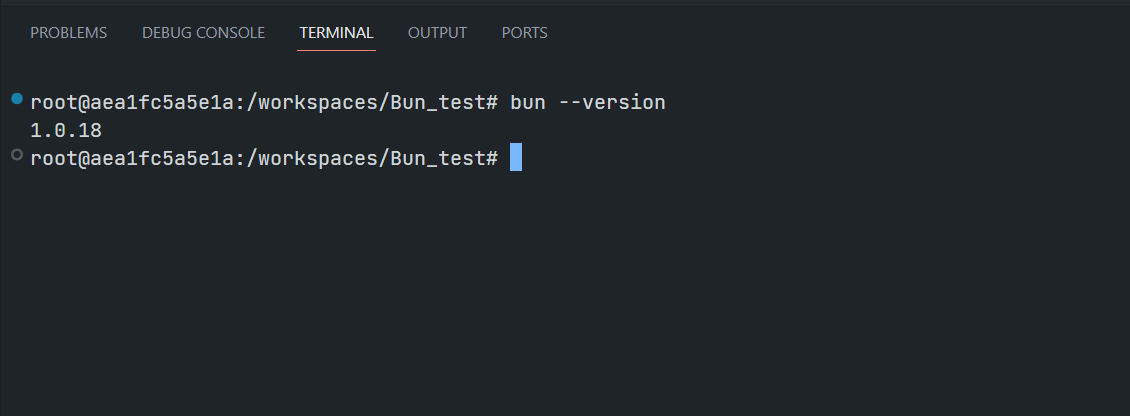
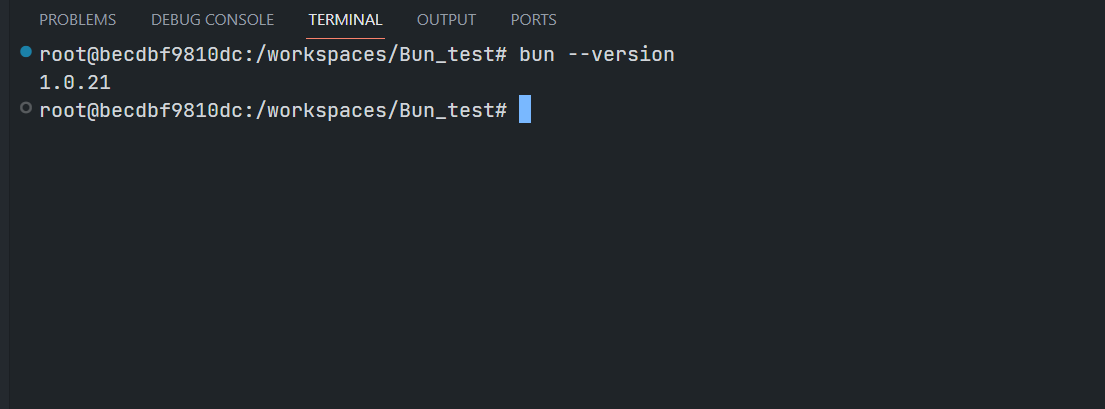
Add Scripts not working, remove Update project to Bun 1.0.21

Changed region(s): [[0.0, 0.0293, 0.6154, 0.4108]]

diff --git a/src/rdlib_cfsWorkflow.ts b/src/rdlib_cfsWorkflow.ts
@@ -3,9 +3,9 @@ import { Session } from '@refinitiv-data/data';
 import {GenericCFSFile} from './genericCFS.ts';
 
 const session = Session.Platform.Definition({
-    appKey: process.env.RDP_APP_KEY || ''!,
-    userName: process.env.RDP_USERNAME || ''!,
-    password: process.env.RDP_PASSWORD || ''!,
+    appKey: Bun.env.RDP_APP_KEY || ''!,
+    userName: Bun.env.RDP_USERNAME || ''!,
+    password: Bun.env.RDP_PASSWORD || ''!,
     takeSignOnControl: true,
 }).getSession();
 

diff --git a/src/rdp_app.ts b/src/rdp_app.ts
@@ -1,7 +1,7 @@
 export {};
-let username: string = process.env.RDP_USERNAME || '';
-let password: string = process.env.RDP_PASSWORD || '';
-let app_key: string = process.env.RDP_APP_KEY || '';
+let username: string = Bun.env.RDP_USERNAME || '';
+let password: string = Bun.env.RDP_PASSWORD || '';
+let app_key: string = Bun.env.RDP_APP_KEY || '';
 
 const rdp_host: string = 'https://api.refinitiv.com';
 const rdp_auth: string = '/auth/oauth2/v1/token';

diff --git a/src/rdlib_historical-pricing.ts b/src/rdlib_historical-pricing.ts
@@ -1,9 +1,9 @@
 import { HistoricalPricing, Session } from '@refinitiv-data/data';
 
 const session = Session.Platform.Definition({
-    appKey: process.env.RDP_APP_KEY || ''!,
-    userName: process.env.RDP_USERNAME || ''!,
-    password: process.env.RDP_PASSWORD || ''!,
+    appKey: Bun.env.RDP_APP_KEY || ''!,
+    userName: Bun.env.RDP_USERNAME || ''!,
+    password: Bun.env.RDP_PASSWORD || ''!,
     takeSignOnControl: true,
 }).getSession();
 

diff --git a/src/rdlib_news.ts b/src/rdlib_news.ts
@@ -1,9 +1,9 @@
 import { News, Session } from '@refinitiv-data/data';
 
 const session = Session.Platform.Definition({
-    appKey: process.env.RDP_APP_KEY || ''!,
-    userName: process.env.RDP_USERNAME || ''!,
-    password: process.env.RDP_PASSWORD || ''!,
+    appKey: Bun.env.RDP_APP_KEY || ''!,
+    userName: Bun.env.RDP_USERNAME || ''!,
+    password: Bun.env.RDP_PASSWORD || ''!,
     takeSignOnControl: true,
 }).getSession();
 

diff --git a/src/testSession.ts b/src/testSession.ts
@@ -1,9 +1,9 @@
 import { Session } from '@refinitiv-data/data';
 
 const session = Session.Platform.Definition({
-    appKey: process.env.RDP_APP_KEY || ''!,
-    userName: process.env.RDP_USERNAME || ''!,
-    password: process.env.RDP_PASSWORD || ''!,
+    appKey: Bun.env.RDP_APP_KEY || ''!,
+    userName: Bun.env.RDP_USERNAME || ''!,
+    password: Bun.env.RDP_PASSWORD || ''!,
     takeSignOnControl: true,
 }).getSession();
 

diff --git a/Article.md b/Article.md
@@ -12,7 +12,7 @@ This example project shows how to implement a console [TypeScript](https://www.t
 
 **Note**:
 - Please be informed that this demo project aims for Development and POC purposes only. The Data Library for TypeScript/JavaScript is not tested and qualified with Bun runtime.
-- This project uses Bun version 1.0.18.
+- This project uses Bun version 1.0.21.
 
 ## <a id="bun_intro"></a>What is Bun?
 
@@ -33,7 +33,7 @@ For more detail about Bun runtime, please check the following resources:
 - [Bun Guide](https://bun.sh/guides).
 - [Bun Document](https://bun.sh/docs).
 
-This project was created using `bun init` command in bun v1.0.18. 
+This project was created using `bun init` command in bun v1.0.21. 
 
 ## Step 1: Setting Up Bun Development environment.
 
@@ -44,7 +44,7 @@ The first step is creating a file name ```devcontainer.json``` in the ```.devcon
 ```json
 {
     "name": "BUN RD TypeScript",
-    "image": "oven/bun:1.0.18",
+    "image": "oven/bun:1.0.21",
     "customizations": {
         "vscode": {
             "extensions": ["oven.bun-vscode"],
@@ -164,7 +164,10 @@ The Data Library for TypeScript/JavaScript is available on the [npm](https://www
 
 ```bash
 $bun add @refinitiv-data/data
+```
+Then
 
+```bash
 $bun add -d @types/bun 
 ```
 Once the installation is succeed, the Data Library dependency will be added to the project's package.json file.
@@ -175,8 +178,7 @@ Once the installation is succeed, the Data Library dependency will be added to t
   "module": "src/rdlib_cfsWorkflow.ts",
   "type": "module",
   "devDependencies": {
-    "@types/bun": "^1.0.0",
-    "bun-types": "latest"
+    "@types/bun": "^1.0.0"
   },
   "peerDependencies": {
     "typescript": "^5.0.0"

diff --git a/README.md b/README.md
@@ -16,7 +16,7 @@ This example project shows how to implement a console [TypeScript](https://www.t
 
 **Note**:
 - Please be informed that this demo project aims for Development and POC purposes only. The Data Library for TypeScript/JavaScript is not tested and qualified with Bun runtime.
-- This project uses Bun version 1.0.18.
+- This project uses Bun version 1.0.21.
 
 ## <a id="bun_intro"></a>What is Bun?
 
@@ -37,7 +37,7 @@ For more detail about Bun runtime, please check the following resources:
 - [Bun Guide](https://bun.sh/guides).
 - [Bun Document](https://bun.sh/docs).
 
-This project was created using `bun init` command in bun v1.0.18. 
+This project was created using `bun init` command in bun v1.0.21. 
 
 ## <a id="rdp_lib"></a>Introduction to the Data Library for TypeScript
 
@@ -129,5 +129,5 @@ That brings me to the end of my Bun - RD TypeScript project. For further details
 * [Bun Official Guides](https://bun.sh/guides).
 
 
-For any questions related to Refinitiv Data Library for TypeScript, please use the [Developers Community Q&A page](https://community.developers.refinitiv.com/) page.
+For any questions related to Data Library for TypeScript, please use the [Developers Community Q&A page](https://community.developers.refinitiv.com/) page.
 
